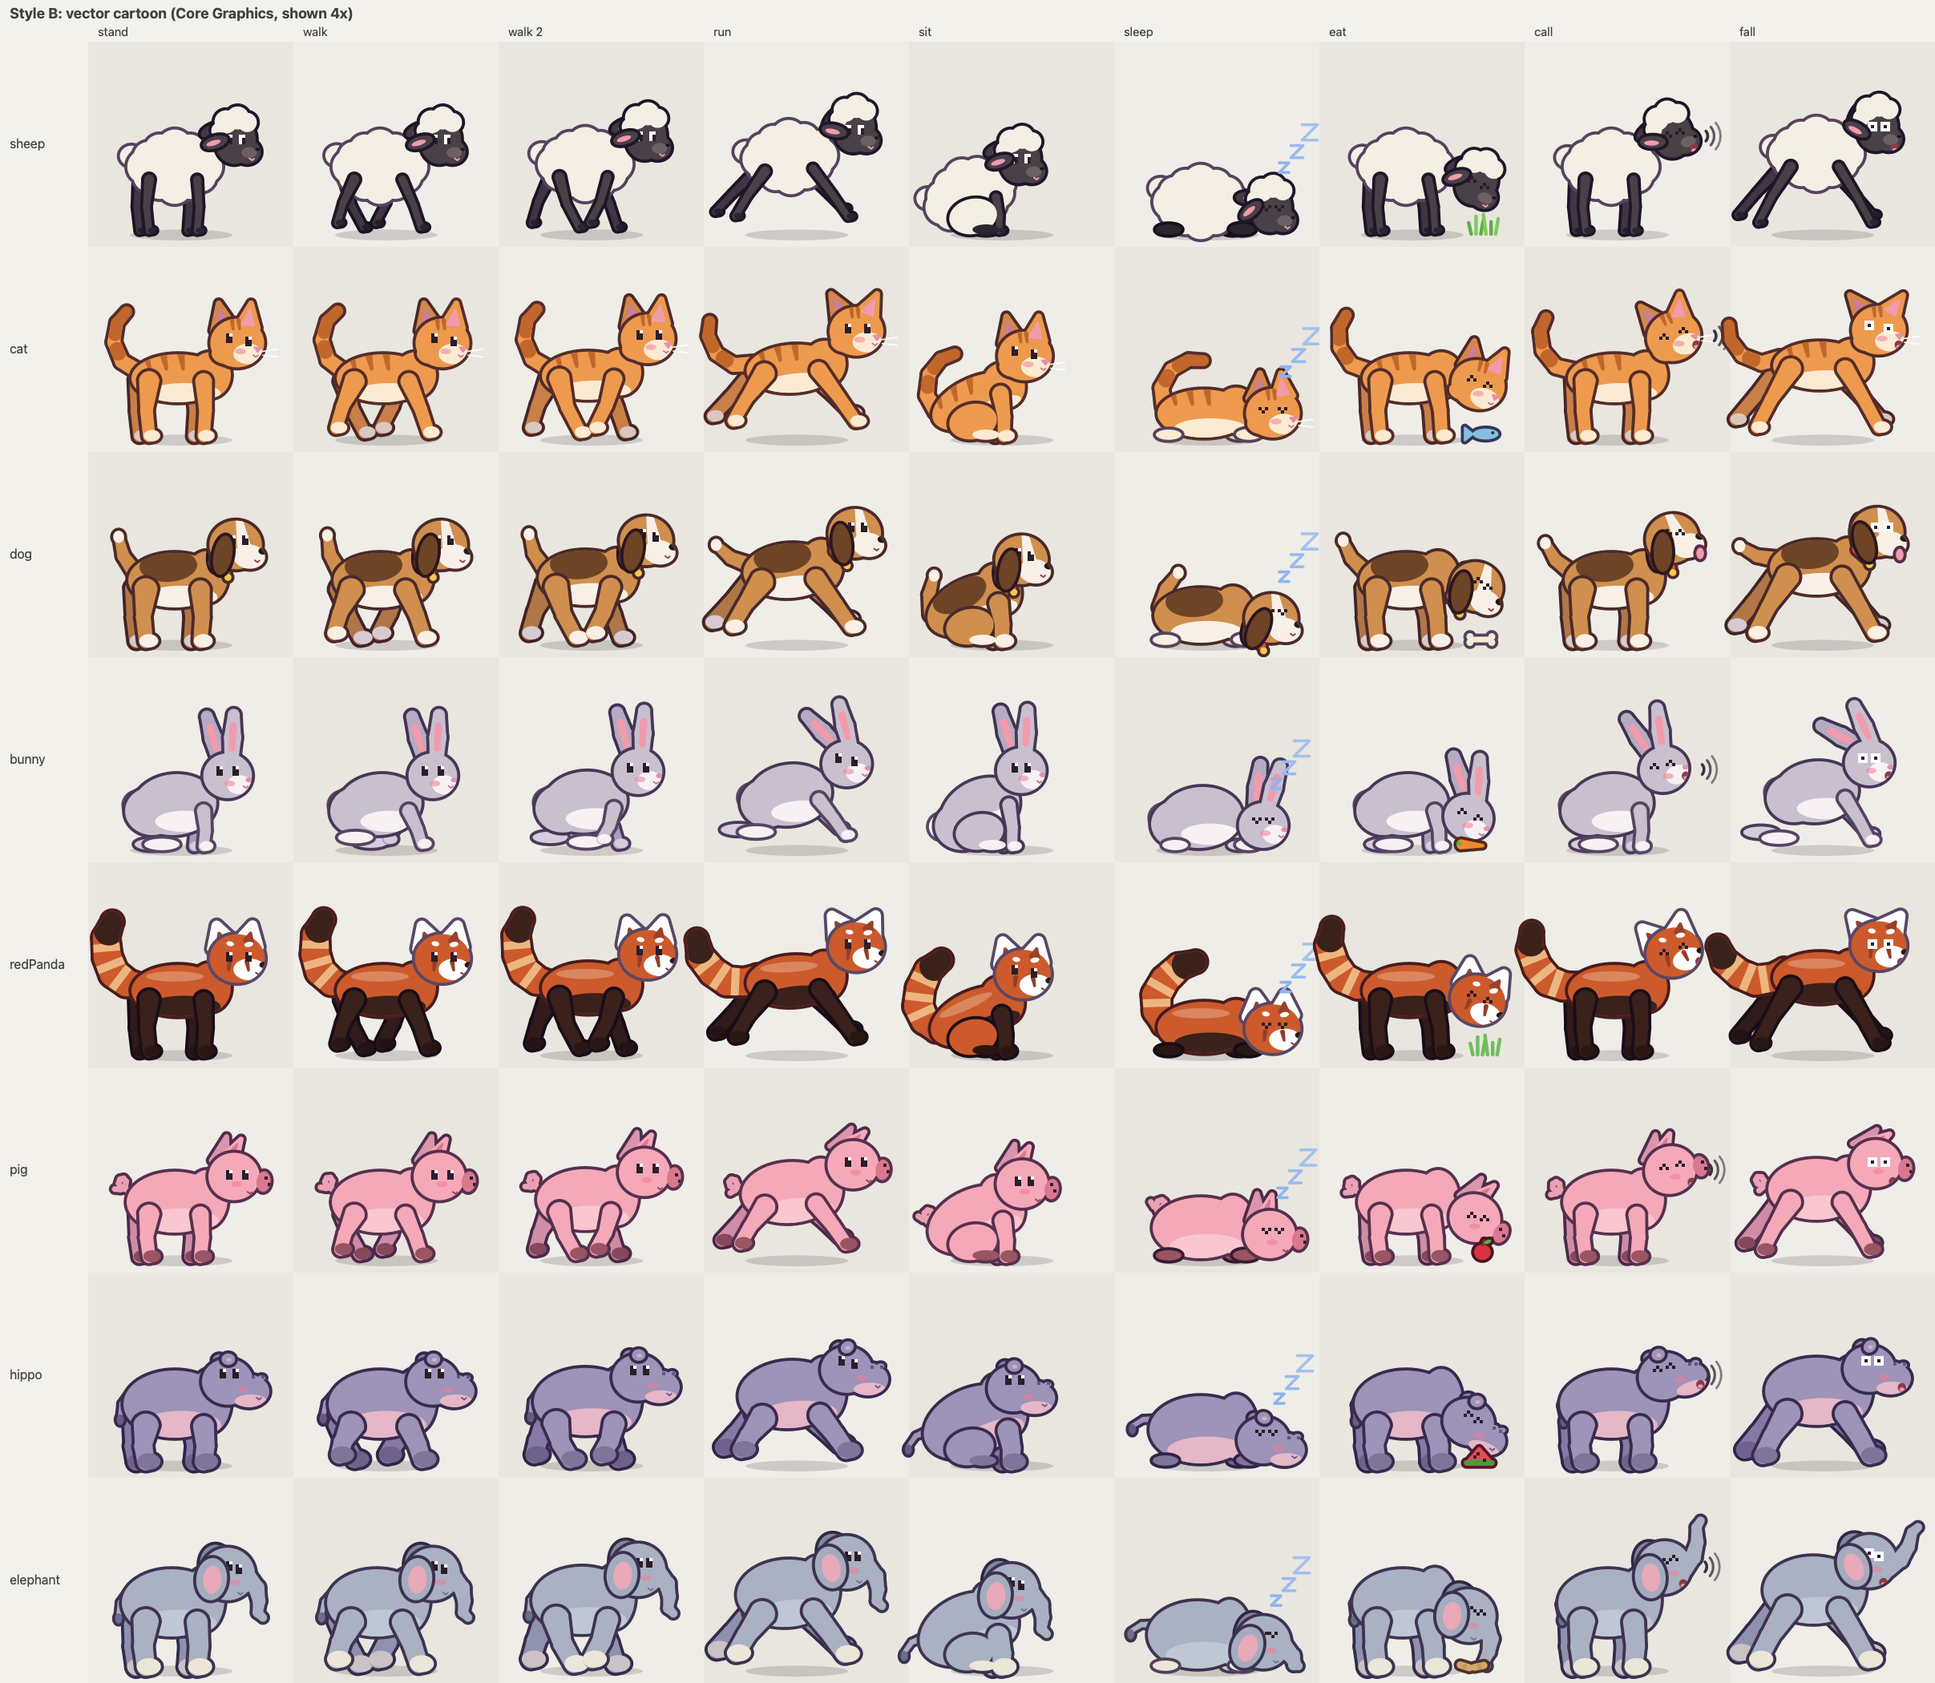
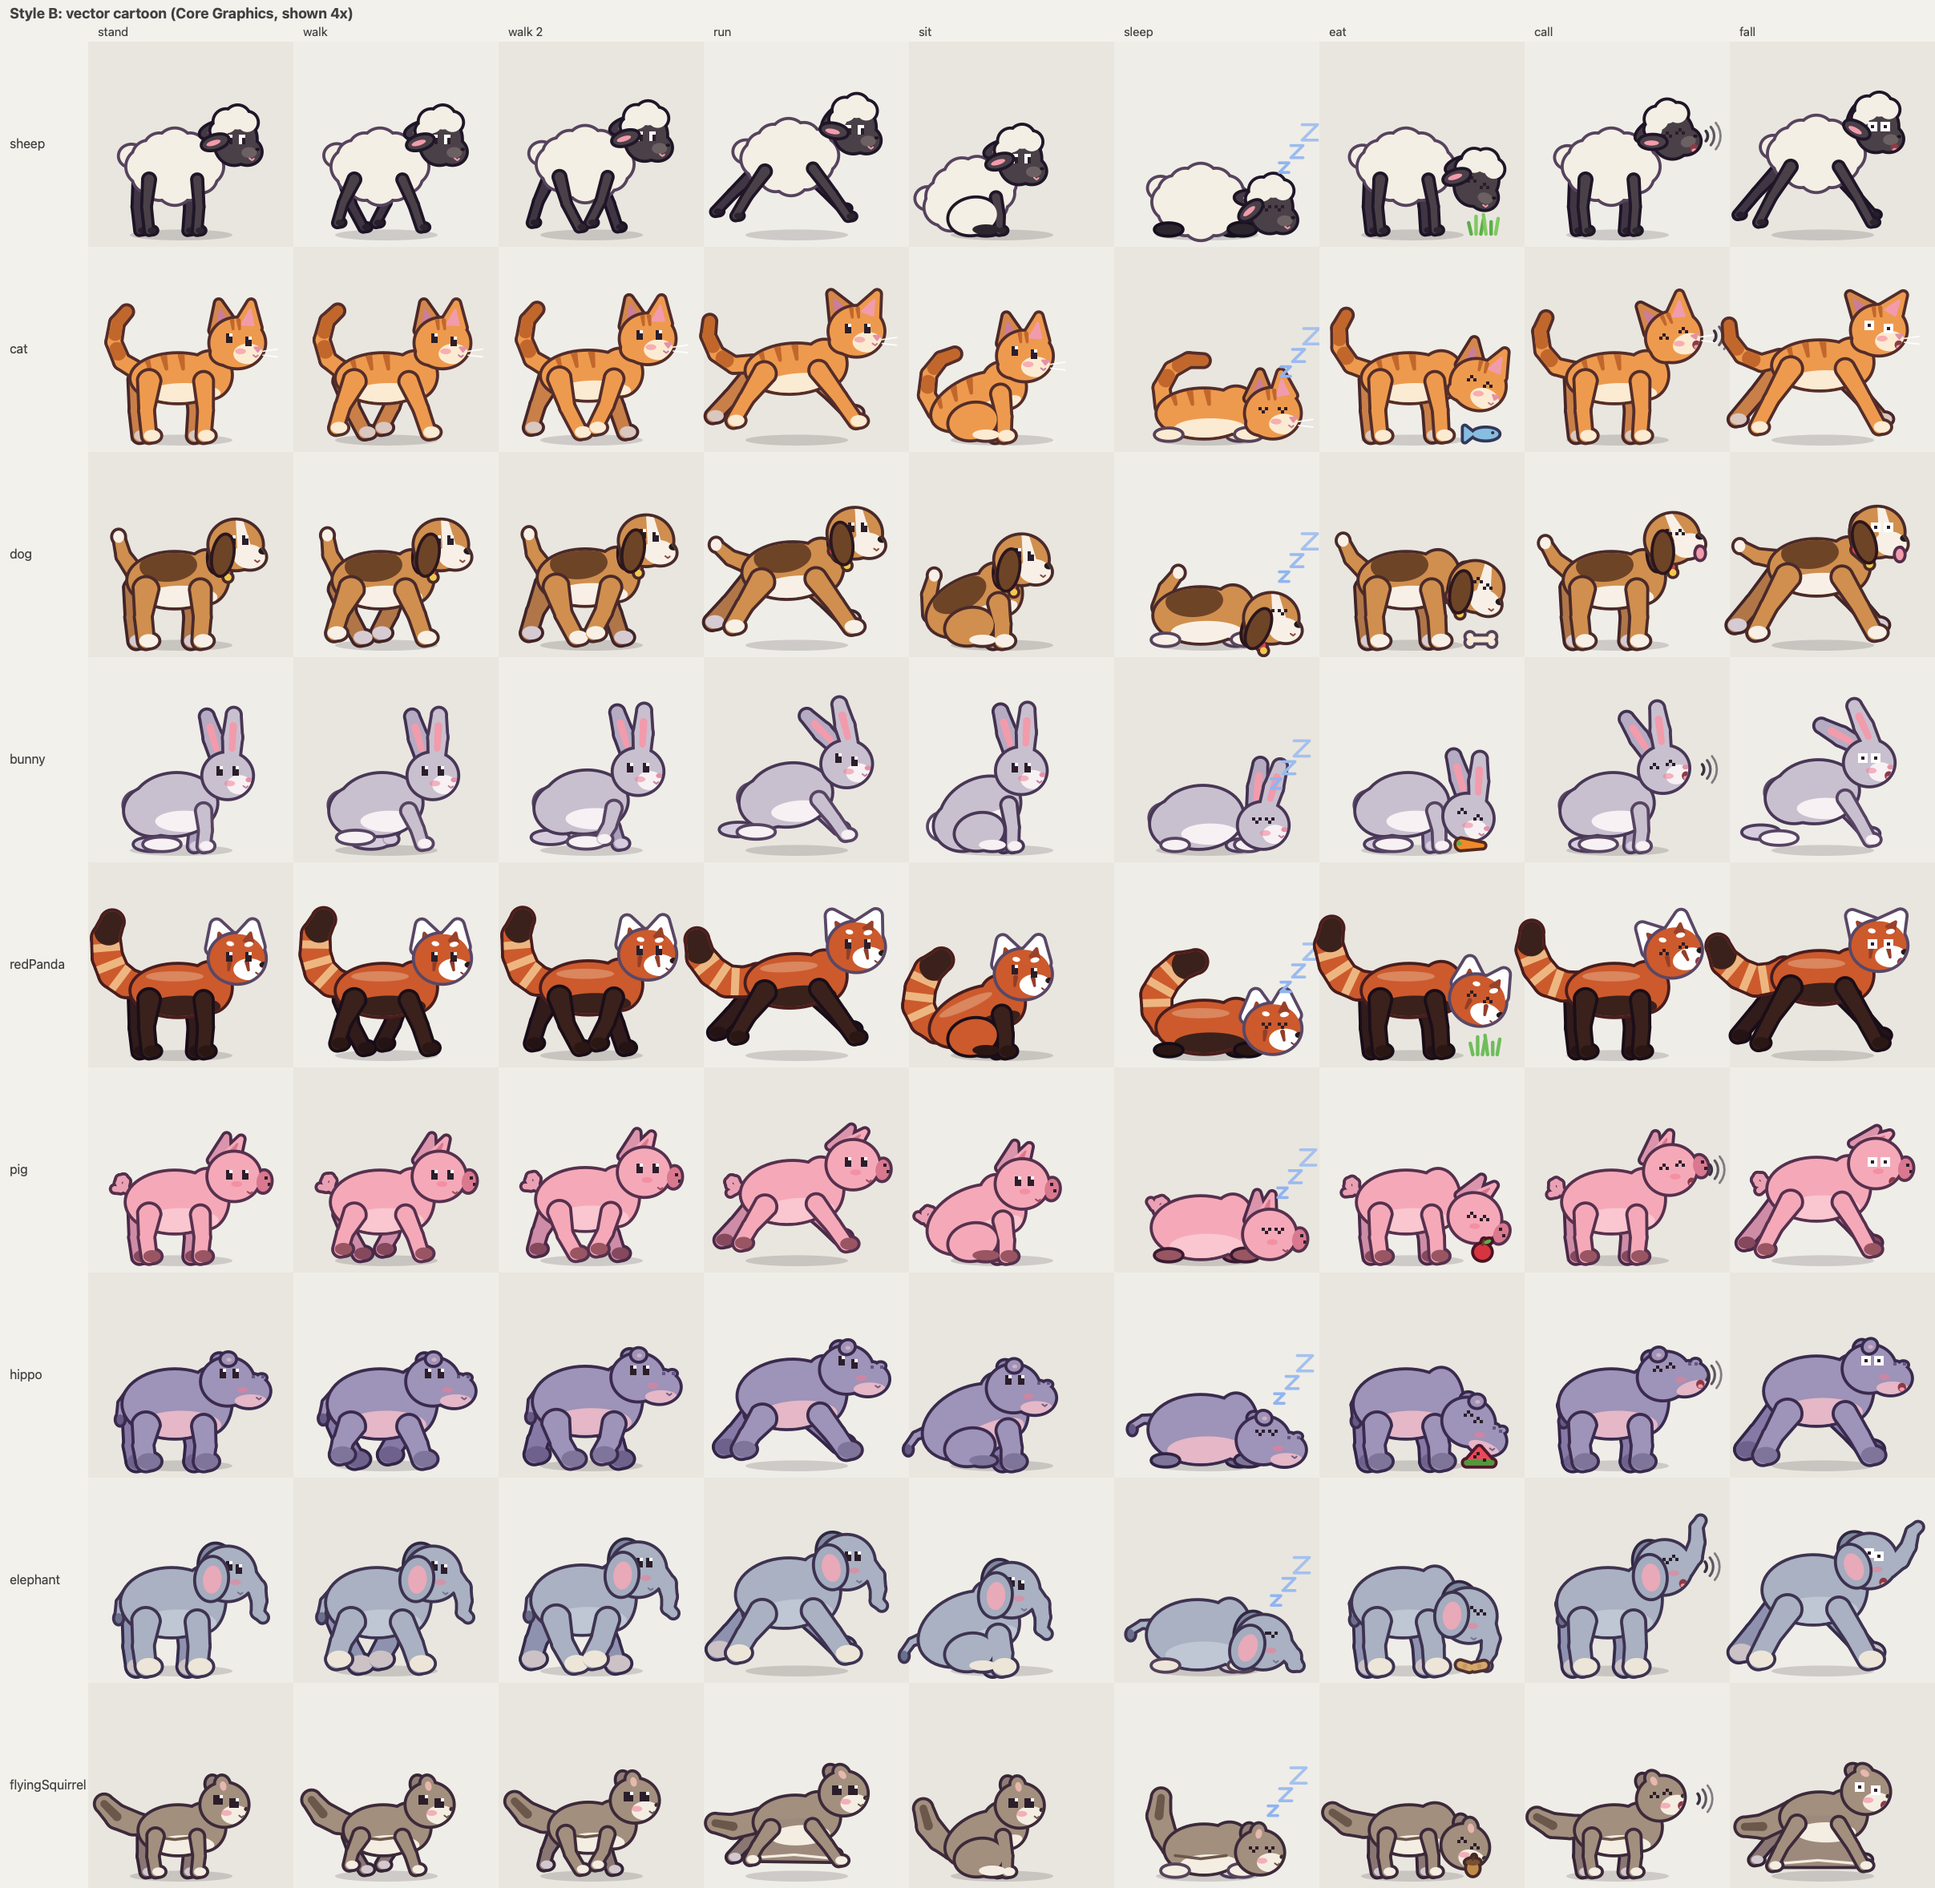
Add flying squirrel

diff --git a/Sources/SheepCore/RigAnimals.swift b/Sources/SheepCore/RigAnimals.swift
@@ -63,6 +63,10 @@ private func spec(_ s: Animal) -> Spec {
         return Spec(bodyC: RigPoint(x: 26, y: 39), bodyR: (15.5, 10.5), hipX: 18, shoulderX: 34, legTop: 47, legW: (3.0, 2.8),
                     headC: RigPoint(x: 43.5, y: 30), headR: (8.5, 8.2),
                     fur: RGB(0xA9B1C2), dark: RGB(0x7F889C), belly: RGB(0xBFC6D4), leg: RGB(0xA9B1C2), paw: RGB(0xEDE6D8))
+    case .flyingSquirrel:
+        return Spec(bodyC: RigPoint(x: 28, y: 46), bodyR: (12, 7.5), hipX: 21, shoulderX: 34, legTop: 50, legW: (1.7, 1.4),
+                    headC: RigPoint(x: 42.5, y: 38), headR: (7.2, 6.6),
+                    fur: RGB(0xA38F7E), dark: RGB(0x6B584B), belly: RGB(0xF4EDE2), leg: RGB(0xA38F7E), paw: RGB(0xF4EDE2))
     }
 }
 
@@ -84,6 +88,8 @@ private struct Builder {
     var bodyAngle = 0.0
     var headCenter: RigPoint = RigPoint(x: 0, y: 0)
     var headAngle = 0.0
+    /// Where each leg's foot ended up (standing legs only).
+    var feet = [RigPoint](repeating: RigPoint(x: 0, y: 0), count: 4)
 
     init(species: Animal, spec: Spec, pose: RigPose) {
         self.species = species
@@ -197,6 +203,7 @@ private struct Builder {
                 let len = max(ground - top.y - pose.lift[i], 4)
                 var foot = top + RigPoint(x: sin(pose.swing[i]) * len, y: cos(pose.swing[i]) * len)
                 foot.y = min(foot.y, ground - pose.lift[i])
+                feet[i] = foot
                 leg(top: top, foot: foot, far: far, back: i < 2)
             }
         case .sitting:
@@ -273,6 +280,18 @@ private struct Builder {
         case .redPanda:
             add(.ellipse(c: body(RigPoint(x: spec.bodyC.x - 1, y: spec.bodyC.y - spec.bodyR.y * 0.55)), rx: 9, ry: 1.6, angle: bodyAngle),
                 spec.fur.shade(0.28), G.body, decal: true)
+        case .flyingSquirrel:
+            // The gliding flap: stretched out between the legs mid-air, folded along the side otherwise.
+            let hip = body(RigPoint(x: spec.hipX, y: spec.bodyC.y)), shoulder = body(RigPoint(x: spec.shoulderX, y: spec.bodyC.y))
+            if pose.mode == .standing && pose.swing[3] > 0.4 {
+                let back = feet[1] + RigPoint(x: 0, y: -1.5), front = feet[3] + RigPoint(x: 0, y: -1.5)
+                add(.triangle(hip, shoulder, front, round: 0.6), spec.fur.shade(-0.06), G.body)
+                add(.triangle(hip, front, back, round: 0.6), spec.fur.shade(-0.06), G.body)
+                add(.line([back, back * 0.5 + front * 0.5 + RigPoint(x: 0, y: -1.2), front], width: 0.8), spec.belly, G.body, decal: true)
+            } else {
+                let l = hip + RigPoint(x: -2, y: ry * 0.25), r = shoulder + RigPoint(x: 1, y: ry * 0.25)
+                add(.line([l, (l + r) * 0.5 + RigPoint(x: 0, y: 1), r], width: 0.9), spec.dark, G.body, decal: true)
+            }
         default:
             break
         }
@@ -330,6 +349,14 @@ private struct Builder {
                 return RigPoint(x: -2 - Double(k) * 0.35 - sin(a) * 1.8, y: -1 + cos(a) * 1.8 - 1.8)
             })
             for (u, v) in zip(pts, pts.dropFirst()) { add(.capsule(a: u, b: v, ra: 0.9, rb: 0.9), spec.fur.shade(-0.08), G.tail) }
+        case .flyingSquirrel:
+            // A flat, fluffy tail held out behind with a gentle upward curve.
+            let pts = chain([RigPoint(x: 1, y: 1), RigPoint(x: -4, y: 0), RigPoint(x: -9, y: -2), RigPoint(x: -13, y: -6)])
+            let radii = [2.6, 3.2, 3.3, 2.6]
+            for k in 0..<(pts.count - 1) {
+                add(.capsule(a: pts[k], b: pts[k + 1], ra: radii[k], rb: radii[k + 1]), spec.fur, G.tail)
+            }
+            add(.capsule(a: pts[2], b: pts[3], ra: 1.4, rb: 1.2), spec.dark, G.tail, decal: true)
         case .hippo, .elephant:
             // A short thin tail with a dark tuft.
             let pts = chain([RigPoint(x: 0, y: 0), RigPoint(x: -2.5, y: 3), RigPoint(x: -3, y: 7)])
@@ -494,6 +521,23 @@ private struct Builder {
             eyes(near: head(3.4, -2.0), far: head(0.2, -2.2), sclera: false)
             mouth(at: head(4.4, 6.0), color: spec.dark.shade(-0.2))
             blush(head(2.4, 2.6))
+        case .flyingSquirrel:
+            // Rounded ears, a pale face and the big dark eyes of a night glider.
+            for (far, dx) in [(true, -3.6), (false, -0.6)] {
+                let c = head(dx, -6.2)
+                add(.ellipse(c: c, rx: 2.0, ry: 2.6, angle: -0.2 + ear), far ? spec.fur.shade(-0.2) : spec.fur, far ? G.farEar : G.head)
+                if !far { add(.ellipse(c: c + RigPoint(x: 0.2, y: 0.4), rx: 1.0, ry: 1.5, angle: -0.2 + ear), RGB(0xE8B7AE), G.head, decal: true) }
+            }
+            add(.ellipse(c: head(0, 0), rx: rx, ry: ry, angle: headAngle), spec.fur, G.head)
+            add(.ellipse(c: head(3.4, 3.2), rx: 4.4, ry: 3.0, angle: headAngle), spec.belly, G.head, decal: true)
+            if pose.eyes == .open {
+                for p in [head(-1.8, -1.2), head(2.8, -1.0)] { pixels(["kkw", "kkk", "kkk"], centeredAt: p) }
+            } else {
+                eyes(near: head(2.6, -1.0), far: head(-2.0, -1.2), sclera: false)
+            }
+            add(.ellipse(c: head(7.0, 1.4), rx: 0.9, ry: 0.7, angle: 0), RGB(0x3A2A2A), G.head, decal: true)
+            mouth(at: head(5.8, 3.6), color: spec.dark)
+            blush(head(0.6, 2.6))
         }
     }
 
@@ -597,6 +641,11 @@ private struct Builder {
                 for (dx, dy) in [(-1.5, -1.8), (1.2, -1.6), (0, -3.0)] {
                     add(.pixel(x: Int((c.x + dx).rounded(.down)), y: Int((c.y + dy).rounded(.down))), RGB(0x2A1E20), G.fx, decal: true)
                 }
+            case .flyingSquirrel:
+                let c = RigPoint(x: x + 1, y: ground - 2.2)
+                add(.ellipse(c: c, rx: 1.8, ry: 2.2, angle: 0), RGB(0xC08A4A), G.fx)
+                add(.ellipse(c: c + RigPoint(x: 0, y: -1.8), rx: 2.2, ry: 1.0, angle: 0), RGB(0x7A5030), G.fx)
+                add(.capsule(a: c + RigPoint(x: 0, y: -2.6), b: c + RigPoint(x: 0.4, y: -3.6), ra: 0.35, rb: 0.3), RGB(0x5A3A22), G.fx)
             case .elephant:
                 for (dx, a) in [(-2.5, 0.3), (2.0, -0.2)] {
                     let c = RigPoint(x: x + dx, y: ground - 1.2)

diff --git a/Sources/SheepCore/Synth.swift b/Sources/SheepCore/Synth.swift
@@ -2,7 +2,7 @@ import Foundation
 
 /// Short original sound effects, synthesized from oscillators and noise (no recordings).
 public enum SoundEffect: String, CaseIterable, Sendable {
-    case bleat, meow, bark, squeak, chirp, thud, poof, boom, sizzle, pop, beam, oink, honk, trumpet
+    case bleat, meow, bark, squeak, chirp, thud, poof, boom, sizzle, pop, beam, oink, honk, trumpet, chitter
 
     /// The call sound for an animal.
     public static func call(for animal: Animal) -> SoundEffect {
@@ -15,6 +15,7 @@ public enum SoundEffect: String, CaseIterable, Sendable {
         case .pig: return .oink
         case .hippo: return .honk
         case .elephant: return .trumpet
+        case .flyingSquirrel: return .chitter
         }
     }
 
@@ -96,6 +97,15 @@ public enum Synth {
                 let x = t / d
                 return (380 + 220 * min(x * 4, 1) - 60 * max(0, x - 0.6) + sin(t * 2 * .pi * 7) * 12,
                         envelope(t, d, attack: 0.04, release: 0.25))
+            }
+        case .chitter:
+            // A fast run of tiny high squeaks.
+            out = []
+            for k in 0..<6 {
+                out += tone(seconds: 0.035, harmonics: [1, 0.4, 0.2]) { t, d in
+                    (2600 - Double(k % 2) * 400 - 500 * (t / d), envelope(t, d, attack: 0.003, release: 0.015))
+                }
+                out += Array(repeating: 0, count: Int(0.025 * sampleRate))
             }
         case .thud:
             var lp = 0.0

diff --git a/Sources/SheepCore/Animal.swift b/Sources/SheepCore/Animal.swift
@@ -1,6 +1,6 @@
 /// The kinds of pet. Every animal supports the same behaviors, with its own flavor.
 public enum Animal: String, CaseIterable, Codable, Sendable {
-    case sheep, cat, dog, bunny, redPanda, pig, hippo, elephant
+    case sheep, cat, dog, bunny, redPanda, pig, hippo, elephant, flyingSquirrel
 
     public var title: String {
         switch self {
@@ -12,6 +12,7 @@ public enum Animal: String, CaseIterable, Codable, Sendable {
         case .pig: return "Pig"
         case .hippo: return "Baby Hippo"
         case .elephant: return "Elephant"
+        case .flyingSquirrel: return "Flying Squirrel"
         }
     }
 
@@ -26,6 +27,7 @@ public enum Animal: String, CaseIterable, Codable, Sendable {
         case .pig: return "oink"
         case .hippo: return "honk"
         case .elephant: return "trumpet"
+        case .flyingSquirrel: return "chitter"
         }
     }
 
@@ -40,6 +42,7 @@ public enum Animal: String, CaseIterable, Codable, Sendable {
         case .pig: return "an apple"
         case .hippo: return "watermelon"
         case .elephant: return "peanuts"
+        case .flyingSquirrel: return "an acorn"
         }
     }
 

diff --git a/README.md b/README.md
@@ -1,6 +1,6 @@
 # Desktop Sheep
 
-A small pixel-art sheep (or cat, dog, bunny, red panda, pig, baby hippo or elephant) that lives on your macOS desktop,
+A small pixel-art sheep (or cat, dog, bunny, red panda, pig, baby hippo, elephant or flying squirrel) that lives on your macOS desktop,
 inspired by classic 90s desktop pets. All art and code are original.
 
 The sheep wanders along the bottom of the screen (just above the Dock) and along the top edges of
@@ -12,10 +12,11 @@ window it was standing on moves or closes. Pick it up with the mouse and drop or
 - Transparent, borderless, always-on-top sheep; clicks pass through everywhere except the sheep.
 - Visible on all Spaces, no Dock icon. A menu-bar sheep offers **Add Pet**, **Remove Pet**,
   **Animal (All Pets)**, **Walk on Windows**, **Settings…** and **Quit**.
-- Eight animals with their own flavor: the sheep bleats and grazes, the cat meows and eats fish,
+- Nine animals with their own flavor: the sheep bleats and grazes, the cat meows and eats fish,
   the dog barks and chews a bone, the bunny hops and nibbles a carrot, the red panda chirps and
   munches bamboo, the pig oinks over an apple, the baby hippo honks at watermelon, and the
-  elephant trumpets and snacks on peanuts. Pick one for all pets (or **Mixed**) from the menu or Settings; right-click a
+  elephant trumpets and snacks on peanuts, and the flying squirrel chitters, nibbles an acorn and
+  spreads its gliding flaps when it falls. Pick one for all pets (or **Mixed**) from the menu or Settings; right-click a
   single pet to change just that one.
 - Time of day and seasons: pets sleep more (and longer) at night and are livelier in the
   morning; in December they wear Santa hats and in October pumpkins keep resting pets company
